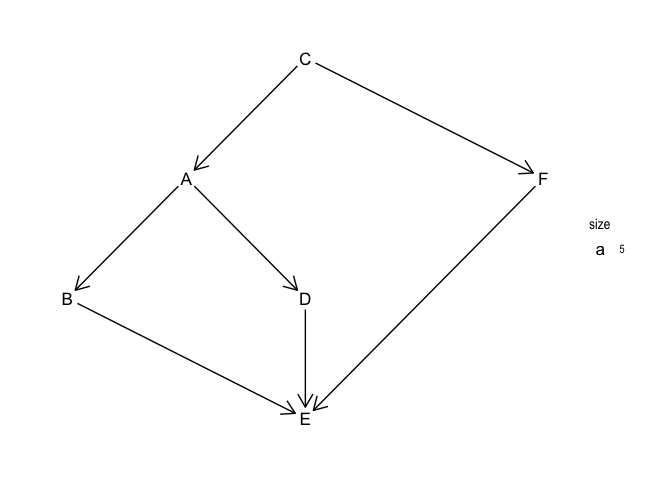
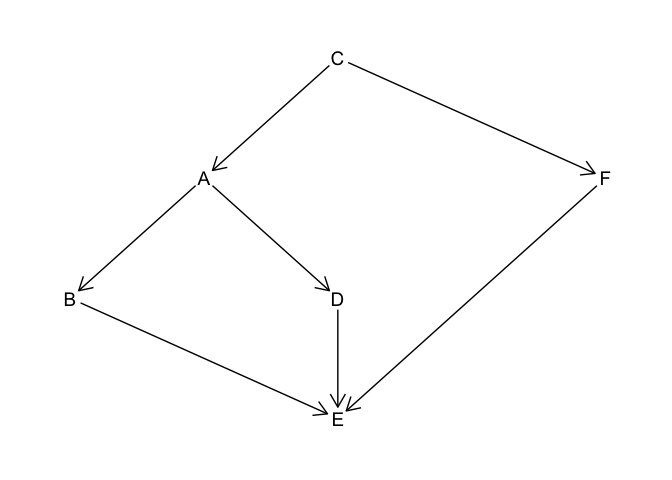
Get rid of weird vestigial legend

diff --git a/day07.md b/day07.md
@@ -1,7 +1,7 @@
 Day 7: The Sum of Its Parts
 ================
 jenny
-Sun Dec 9 13:05:39 2018
+Tue Dec 18 12:27:56 2018
 
 <https://adventofcode.com/2018/day/7>
 
@@ -45,7 +45,7 @@ sugiyama <- function(g) {
   ## hierarchies where multiple parents are allowed) it minimizes the number of
   ## crossing edges"
   ggraph(g, layout = "sugiyama") +
-    geom_node_text(aes(label = name, size = 5)) +
+    geom_node_text(size = 5, aes(label = name)) +
     geom_edge_link(arrow = arrow(length = unit(4, 'mm')),
                    start_cap = circle(3, 'mm'),
                    end_cap = circle(3, 'mm')) +
